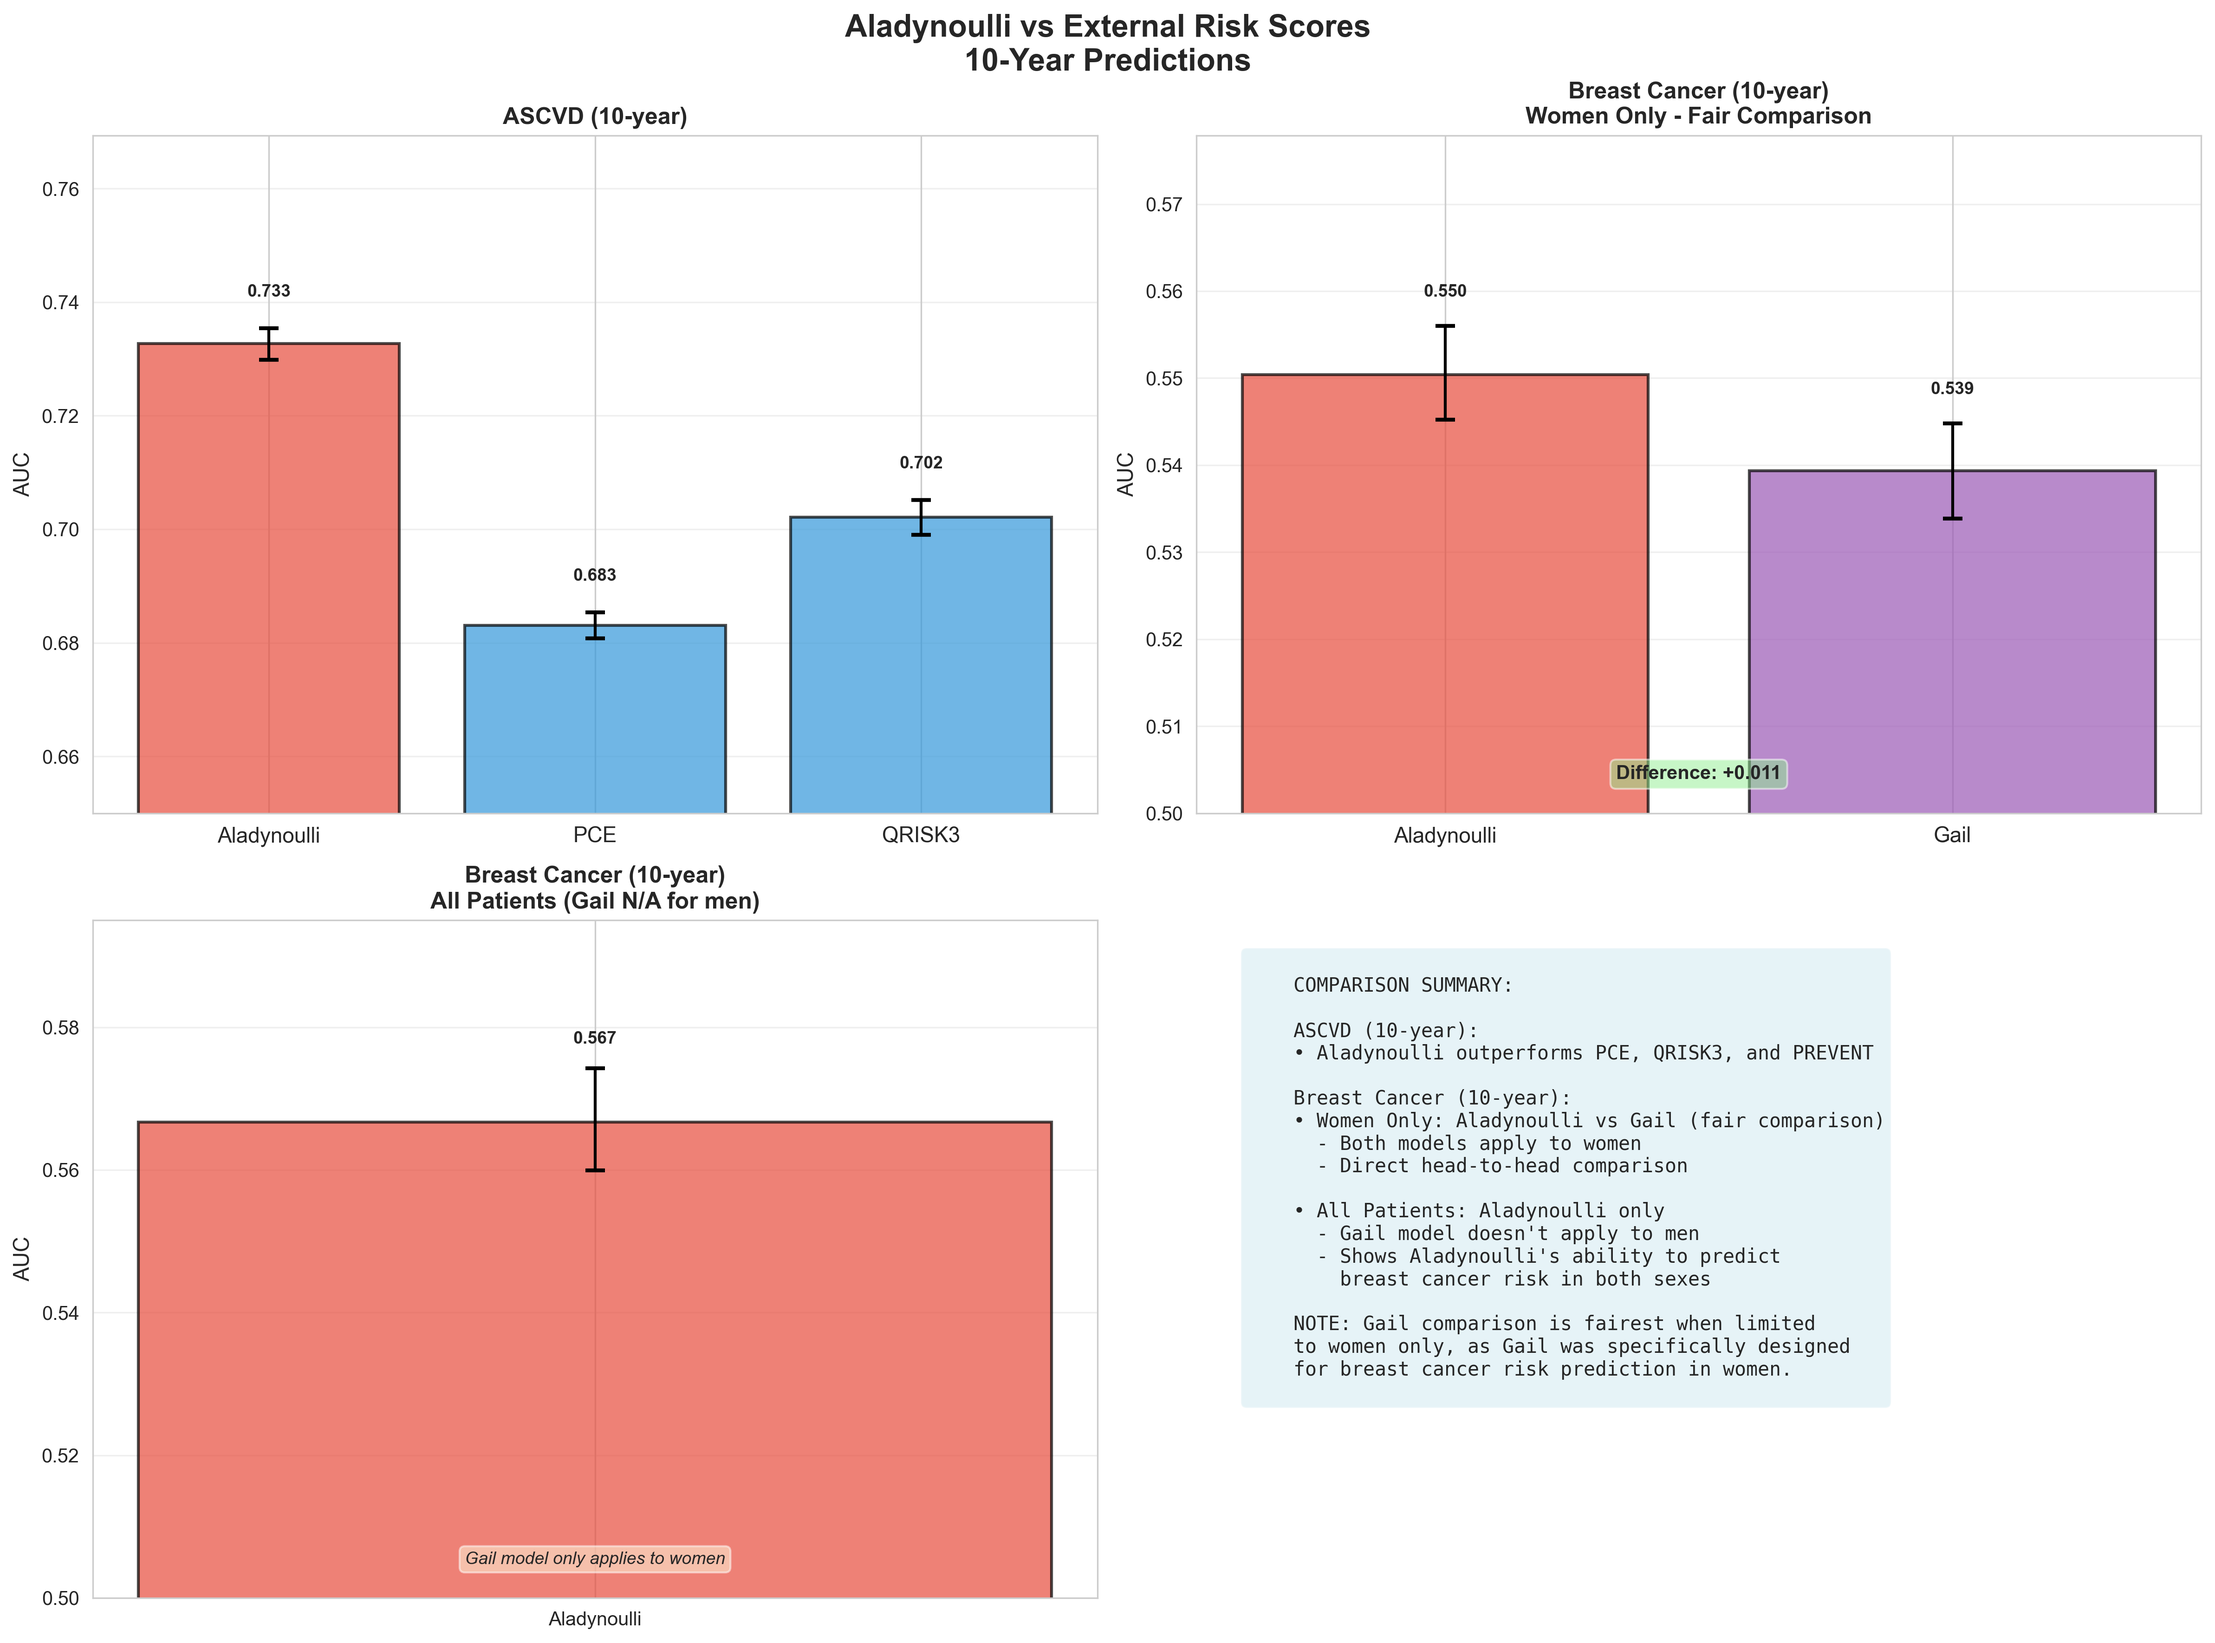
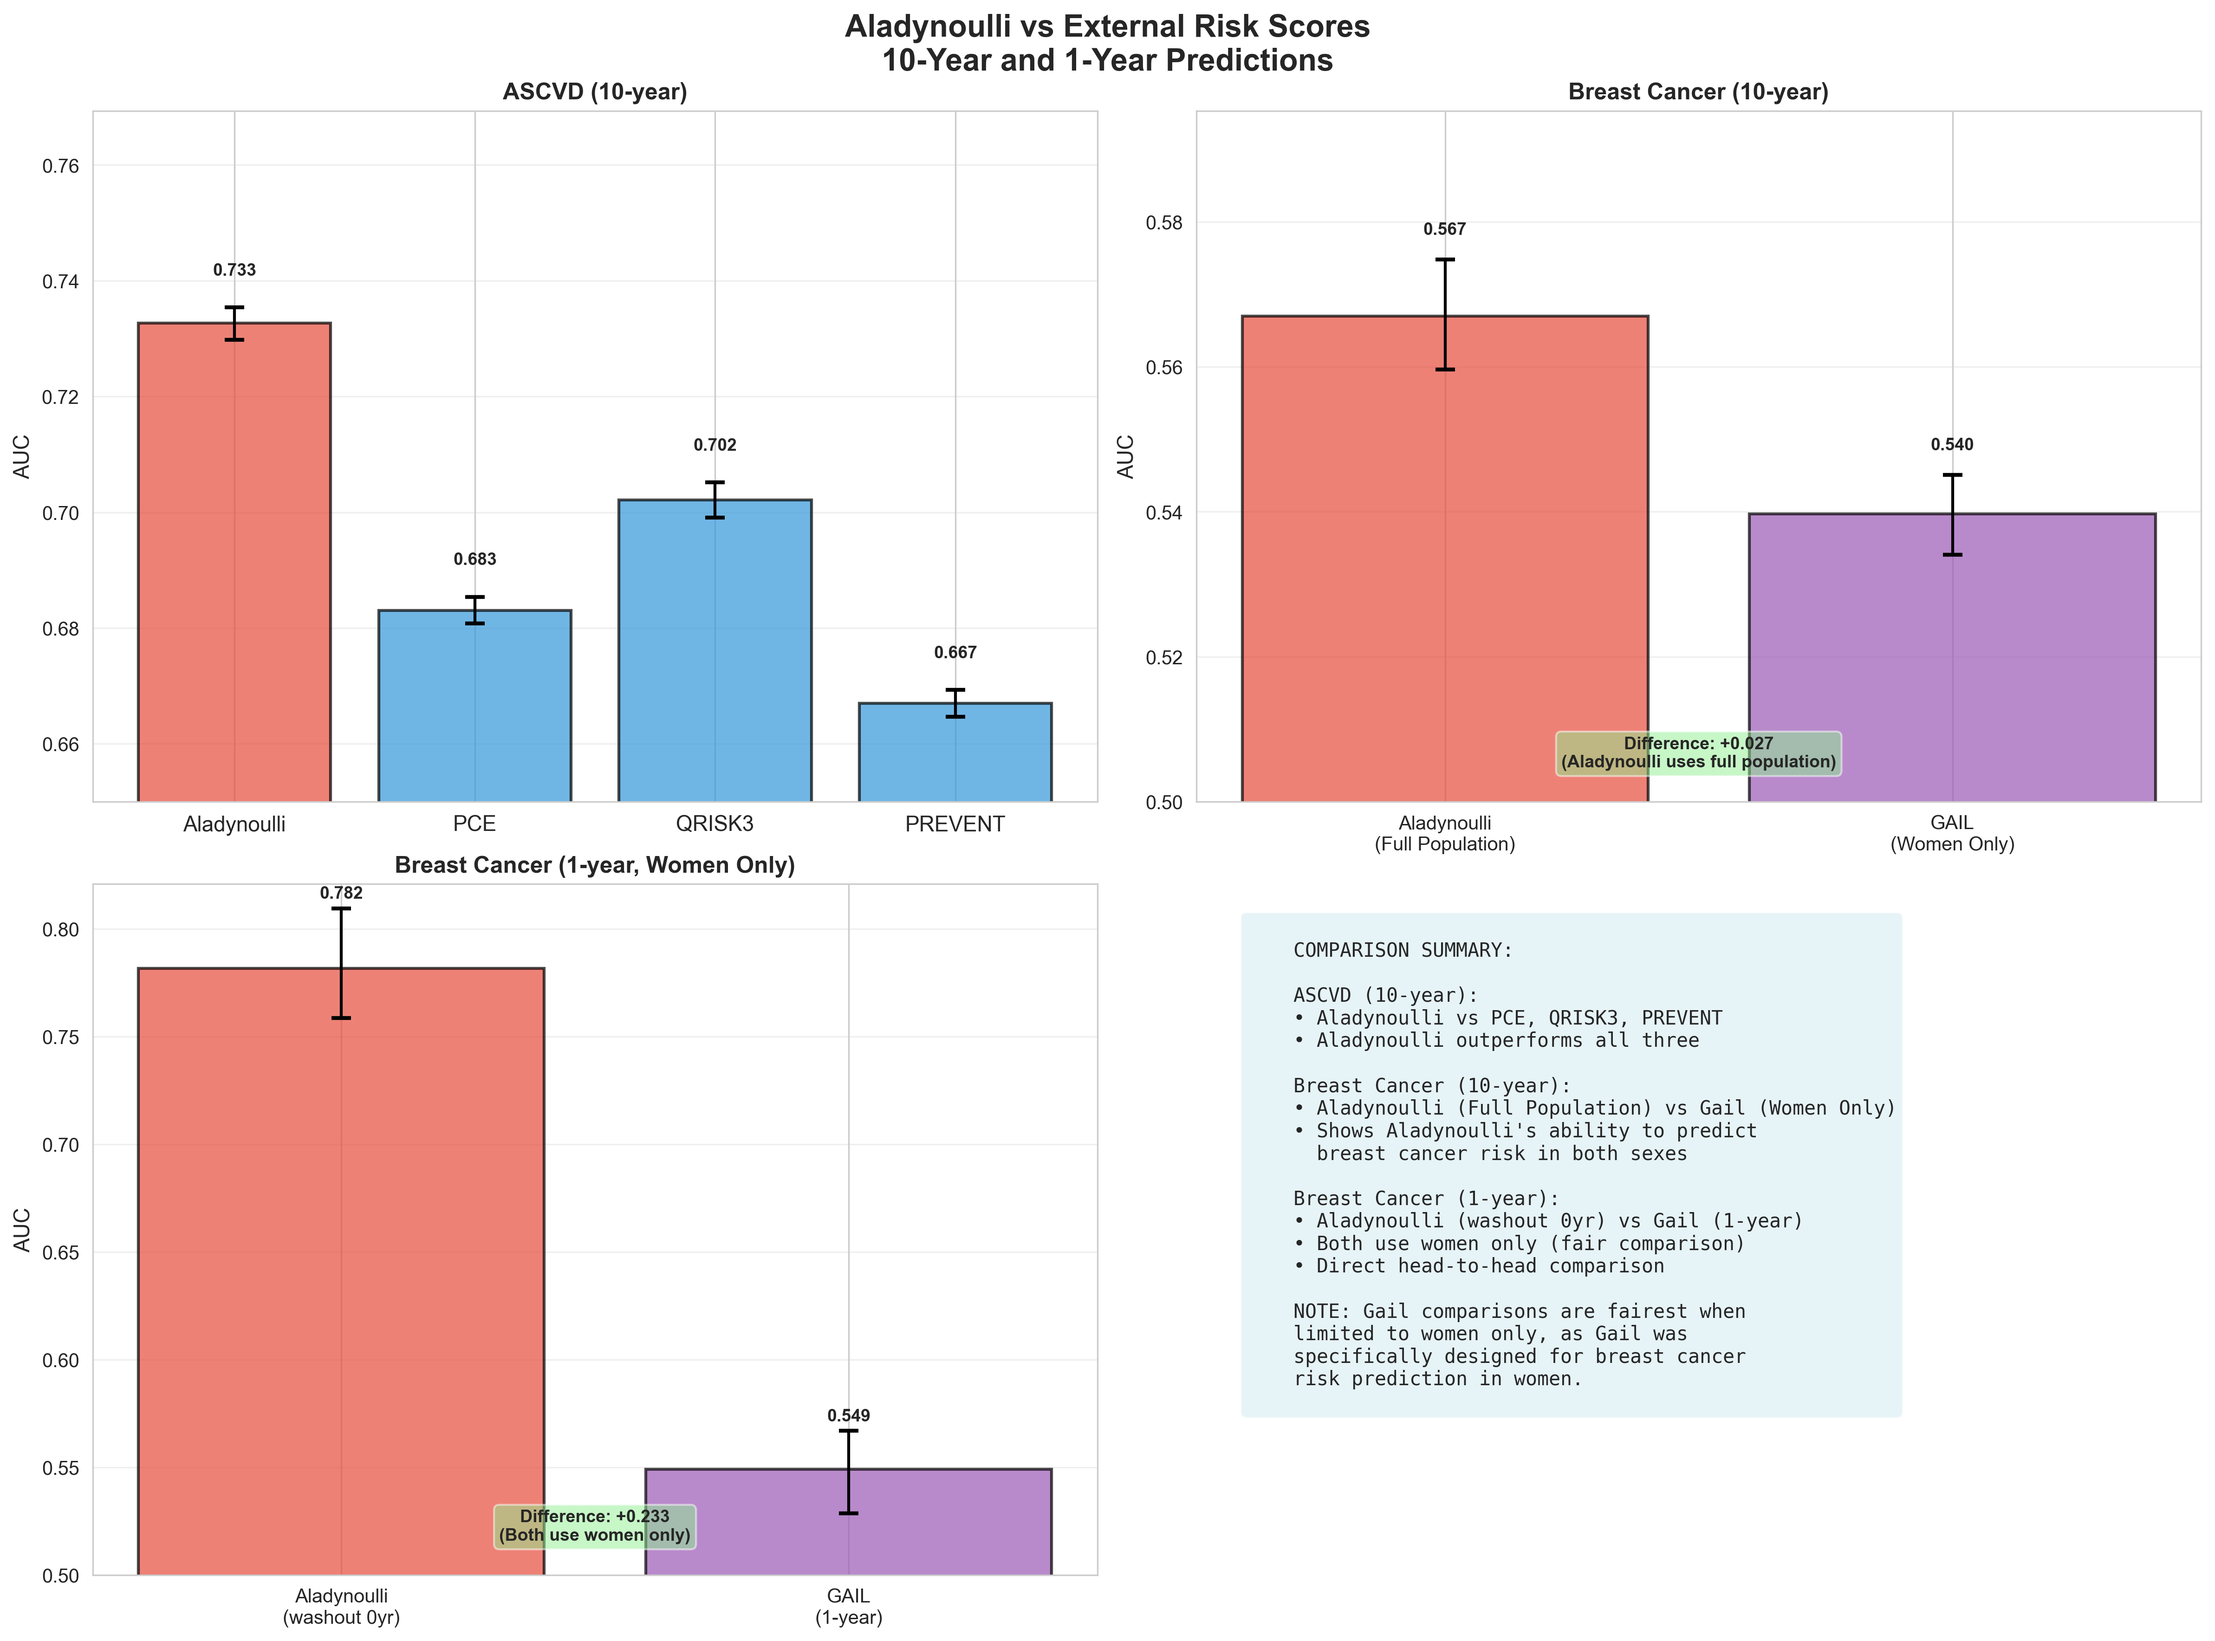
update

diff --git a/docs/index.html b/docs/index.html
@@ -124,7 +124,7 @@
 <h2 id="how-to-use-this-documentation">📋 How to Use This Documentation</h2>
 <p>This documentation is organized into <strong>four main sections</strong> for reviewers:</p>
 <ol type="1">
-<li><strong><a href="#-model-architecture">Model Architecture</a></strong> - Understand how the model works: core components, mathematical framework, and key concepts</li>
+<li><strong><a href="#-model-architecture">Model Architecture</a></strong> - Understand how the model works: core components, mathematical framework, and key concepts</li>
 <li><strong><a href="#-reviewer-response-analyses">Reviewer Response Analyses</a></strong> - Interactive analyses addressing all reviewer questions, organized by referee</li>
 <li><strong><a href="#-complete-workflow">Complete Workflow</a></strong> - Step-by-step guide to running the model: preprocessing, training, and prediction</li>
 <li><strong><a href="#-performance--scalability">Performance &amp; Scalability</a></strong> - Computational requirements and scaling characteristics</li>
@@ -135,7 +135,7 @@
 <ul>
 <li><a href="#-how-to-use-this-documentation">How to Use This Documentation</a></li>
 <li><a href="#-overview">Overview</a></li>
-<li><a href="#-model-architecture">Model Architecture</a></li>
+<li><a href="#-model-architecture">Model Architecture</a></li>
 <li><a href="#-reviewer-response-analyses">Reviewer Response Analyses</a></li>
 <li><a href="#-complete-workflow">Complete Workflow</a></li>
 <li><a href="#-performance--scalability">Performance &amp; Scalability</a></li>
@@ -271,7 +271,7 @@
 </tr>
 <tr>
 <td><strong>Clinical Meaning</strong></td>
-<td>ICD vs PheCode comparison and clinical interpretation</td>
+<td>Analysis of Familial hypercholesterolemia patients</td>
 <td><a href="reviewer_responses/notebooks/R1/R1_Q3_Clinical_Meaning.html">R1_Q3_Clinical_Meaning.html</a></td>
 </tr>
 <tr>
@@ -301,6 +301,11 @@
 </tr>
 </thead>
 <tbody>
+<tr>
+<td><strong>Temporal Leakage</strong></td>
+<td>Assessment of temporal leakage and prediction accuracy</td>
+<td><a href="reviewer_responses/notebooks/R2/R2_Temporal_Leakage.html">R2_Temporal_Leakage.html</a></td>
+</tr>
 <tr>
 <td><strong>Washout Comparisons</strong></td>
 <td>Multi-approach washout analysis (time horizon, floating prediction, fixed timepoint)</td>

diff --git a/pyScripts/dec_6_revision/new_notebooks/pythonscripts/visualize_all_comparisons.py b/pyScripts/dec_6_revision/new_notebooks/pythonscripts/visualize_all_comparisons.py
@@ -43,7 +43,7 @@ def load_external_scores_comparison():
 def plot_external_scores_comparison(df, output_dir):
     """Plot external scores comparison."""
     fig, axes = plt.subplots(2, 2, figsize=(16, 12))
-    fig.suptitle('Aladynoulli vs External Risk Scores\n10-Year Predictions', 
+    fig.suptitle('Aladynoulli vs External Risk Scores\n10-Year and 1-Year Predictions', 
                  fontsize=16, fontweight='bold')
     
     # 1. ASCVD: Aladynoulli vs PCE vs QRISK3 vs PREVENT
@@ -81,11 +81,20 @@ def plot_external_scores_comparison(df, output_dir):
             ci_lowers.append(ascvd_row.get('QRISK3_CI_lower', np.nan))
             ci_uppers.append(ascvd_row.get('QRISK3_CI_upper', np.nan))
         
-        if 'PREVENT_AUC' in df.columns and pd.notna(ascvd_row.get('PREVENT_AUC', np.nan)):
+        # Check for PREVENT (could be PREVENT_AUC or PREVENT_10yr_AUC)
+        prevent_col = None
+        if 'PREVENT_10yr_AUC' in df.columns and pd.notna(ascvd_row.get('PREVENT_10yr_AUC', np.nan)):
+            prevent_col = 'PREVENT_10yr_AUC'
+        elif 'PREVENT_AUC' in df.columns and pd.notna(ascvd_row.get('PREVENT_AUC', np.nan)):
+            prevent_col = 'PREVENT_AUC'
+        
+        if prevent_col:
             models.append('PREVENT')
-            aucs.append(ascvd_row['PREVENT_AUC'])
-            ci_lowers.append(ascvd_row.get('PREVENT_CI_lower', np.nan))
-            ci_uppers.append(ascvd_row.get('PREVENT_CI_upper', np.nan))
+            aucs.append(ascvd_row[prevent_col])
+            ci_lower_col = prevent_col.replace('_AUC', '_CI_lower')
+            ci_upper_col = prevent_col.replace('_AUC', '_CI_upper')
+            ci_lowers.append(ascvd_row.get(ci_lower_col, np.nan))
+            ci_uppers.append(ascvd_row.get(ci_upper_col, np.nan))
         
         if models:
             x_pos = np.arange(len(models))
@@ -179,10 +188,66 @@ def plot_external_scores_comparison(df, output_dir):
         ax.text(0.5, 0.5, 'Breast Cancer data not found', ha='center', va='center', transform=ax.transAxes)
         ax.set_title('Breast Cancer (10-year)', fontsize=12, fontweight='bold')
     
-    # 3. Keep third plot for other comparisons (or remove if not needed)
+    # 3. Breast Cancer 1-year: Aladynoulli (washout 0yr) vs Gail (1-year) - both women only
     ax = axes[1, 0]
-    ax.text(0.5, 0.5, 'Additional comparison\n(if needed)', ha='center', va='center', transform=ax.transAxes)
-    ax.set_title('Additional Comparison', fontsize=12, fontweight='bold')
+    breast_1yr_rows = df[df.index.str.contains('Breast_Cancer_1yr', na=False)]
+    
+    if len(breast_1yr_rows) > 0:
+        breast_1yr_row = breast_1yr_rows.iloc[0]
+        
+        models = []
+        aucs = []
+        ci_lowers = []
+        ci_uppers = []
+        
+        if 'Aladynoulli_AUC' in df.columns and pd.notna(breast_1yr_row.get('Aladynoulli_AUC', np.nan)):
+            models.append('Aladynoulli\n(washout 0yr)')
+            aucs.append(breast_1yr_row['Aladynoulli_AUC'])
+            ci_lowers.append(breast_1yr_row.get('Aladynoulli_CI_lower', np.nan))
+            ci_uppers.append(breast_1yr_row.get('Aladynoulli_CI_upper', np.nan))
+        
+        if 'Gail_AUC' in df.columns and pd.notna(breast_1yr_row.get('Gail_AUC', np.nan)):
+            models.append('GAIL\n(1-year)')
+            aucs.append(breast_1yr_row['Gail_AUC'])
+            ci_lowers.append(breast_1yr_row.get('Gail_CI_lower', np.nan))
+            ci_uppers.append(breast_1yr_row.get('Gail_CI_upper', np.nan))
+        
+        if models:
+            x_pos = np.arange(len(models))
+            colors = ['#e74c3c' if 'Aladynoulli' in m else '#9b59b6' for m in models]
+            bars = ax.bar(x_pos, aucs, color=colors, alpha=0.7, edgecolor='black', linewidth=1.5)
+            
+            errors_lower = [aucs[i] - ci_lowers[i] for i in range(len(models))]
+            errors_upper = [ci_uppers[i] - aucs[i] for i in range(len(models))]
+            ax.errorbar(x_pos, aucs, yerr=[errors_lower, errors_upper], 
+                       fmt='none', color='black', capsize=5, capthick=2)
+            
+            ax.set_xticks(x_pos)
+            ax.set_xticklabels(models, fontsize=10)
+            ax.set_ylabel('AUC', fontsize=11)
+            ax.set_title('Breast Cancer (1-year, Women Only)', 
+                        fontsize=12, fontweight='bold')
+            ax.set_ylim(0.50, max(aucs) * 1.05)
+            ax.grid(axis='y', alpha=0.3)
+            
+            for i, (bar, auc) in enumerate(zip(bars, aucs)):
+                ax.text(bar.get_x() + bar.get_width()/2., auc + errors_upper[i] + 0.003,
+                        f'{auc:.3f}',
+                        ha='center', va='bottom', fontsize=9, fontweight='bold')
+            
+            # Add note about comparison
+            if len(models) == 2:
+                diff = aucs[0] - aucs[1]
+                ax.text(0.5, 0.05, f'Difference: {diff:+.3f}\n(Both use women only)', 
+                       transform=ax.transAxes, ha='center',
+                       bbox=dict(boxstyle='round', facecolor='lightgreen', alpha=0.5),
+                       fontsize=9, fontweight='bold')
+        else:
+            ax.text(0.5, 0.5, 'No data available', ha='center', va='center', transform=ax.transAxes)
+            ax.set_title('Breast Cancer (1-year)', fontsize=12, fontweight='bold')
+    else:
+        ax.text(0.5, 0.5, 'Breast Cancer 1-year data not found', ha='center', va='center', transform=ax.transAxes)
+        ax.set_title('Breast Cancer (1-year)', fontsize=12, fontweight='bold')
     
     # 4. Summary table
     ax = axes[1, 1]
@@ -192,21 +257,23 @@ def plot_external_scores_comparison(df, output_dir):
     COMPARISON SUMMARY:
     
     ASCVD (10-year):
-    • Aladynoulli outperforms PCE, QRISK3, and PREVENT
+    • Aladynoulli vs PCE, QRISK3, PREVENT
+    • Aladynoulli outperforms all three
     
     Breast Cancer (10-year):
-    • Women Only: Aladynoulli vs Gail (fair comparison)
-      - Both models apply to women
-      - Direct head-to-head comparison
+    • Aladynoulli (Full Population) vs Gail (Women Only)
+    • Shows Aladynoulli's ability to predict
+      breast cancer risk in both sexes
     
-    • All Patients: Aladynoulli only
-      - Gail model doesn't apply to men
-      - Shows Aladynoulli's ability to predict
-        breast cancer risk in both sexes
+    Breast Cancer (1-year):
+    • Aladynoulli (washout 0yr) vs Gail (1-year)
+    • Both use women only (fair comparison)
+    • Direct head-to-head comparison
     
-    NOTE: Gail comparison is fairest when limited
-    to women only, as Gail was specifically designed
-    for breast cancer risk prediction in women.
+    NOTE: Gail comparisons are fairest when
+    limited to women only, as Gail was
+    specifically designed for breast cancer
+    risk prediction in women.
     """
     
     ax.text(0.05, 0.95, summary_text,
